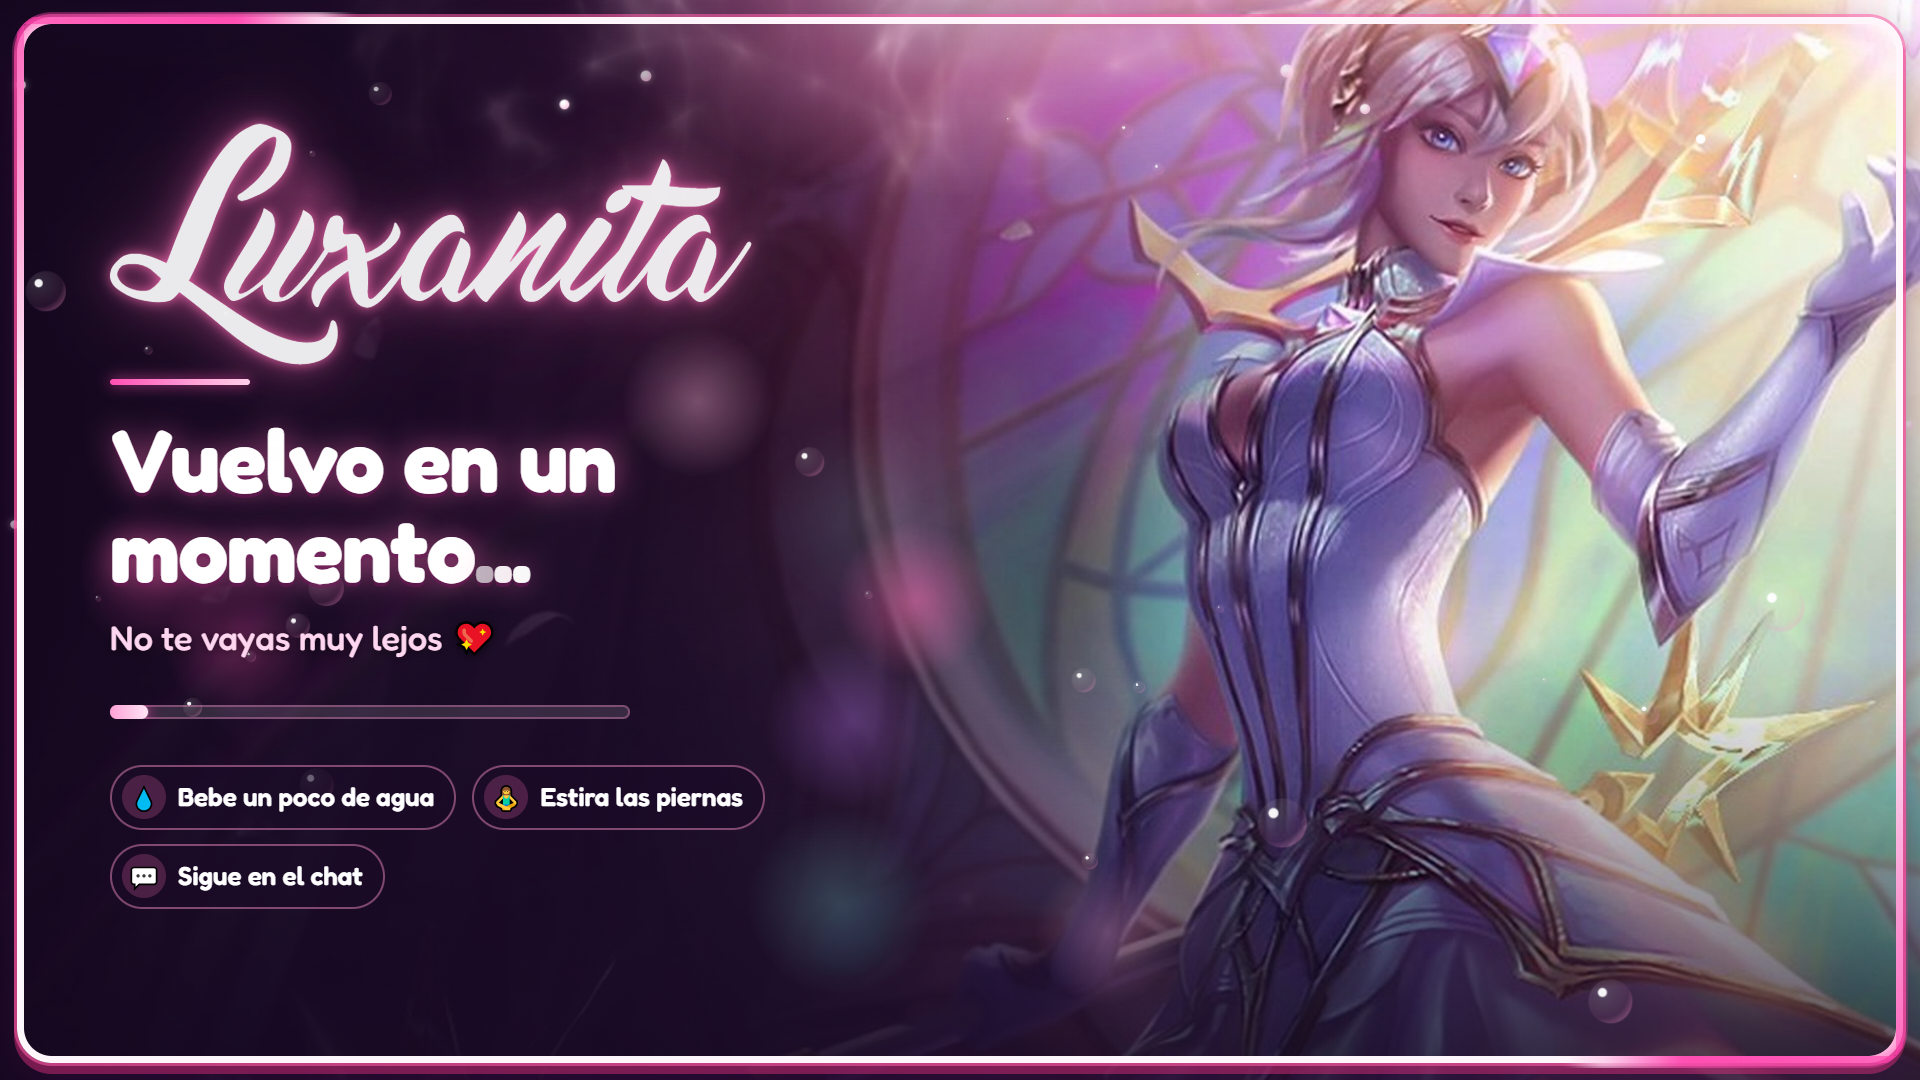
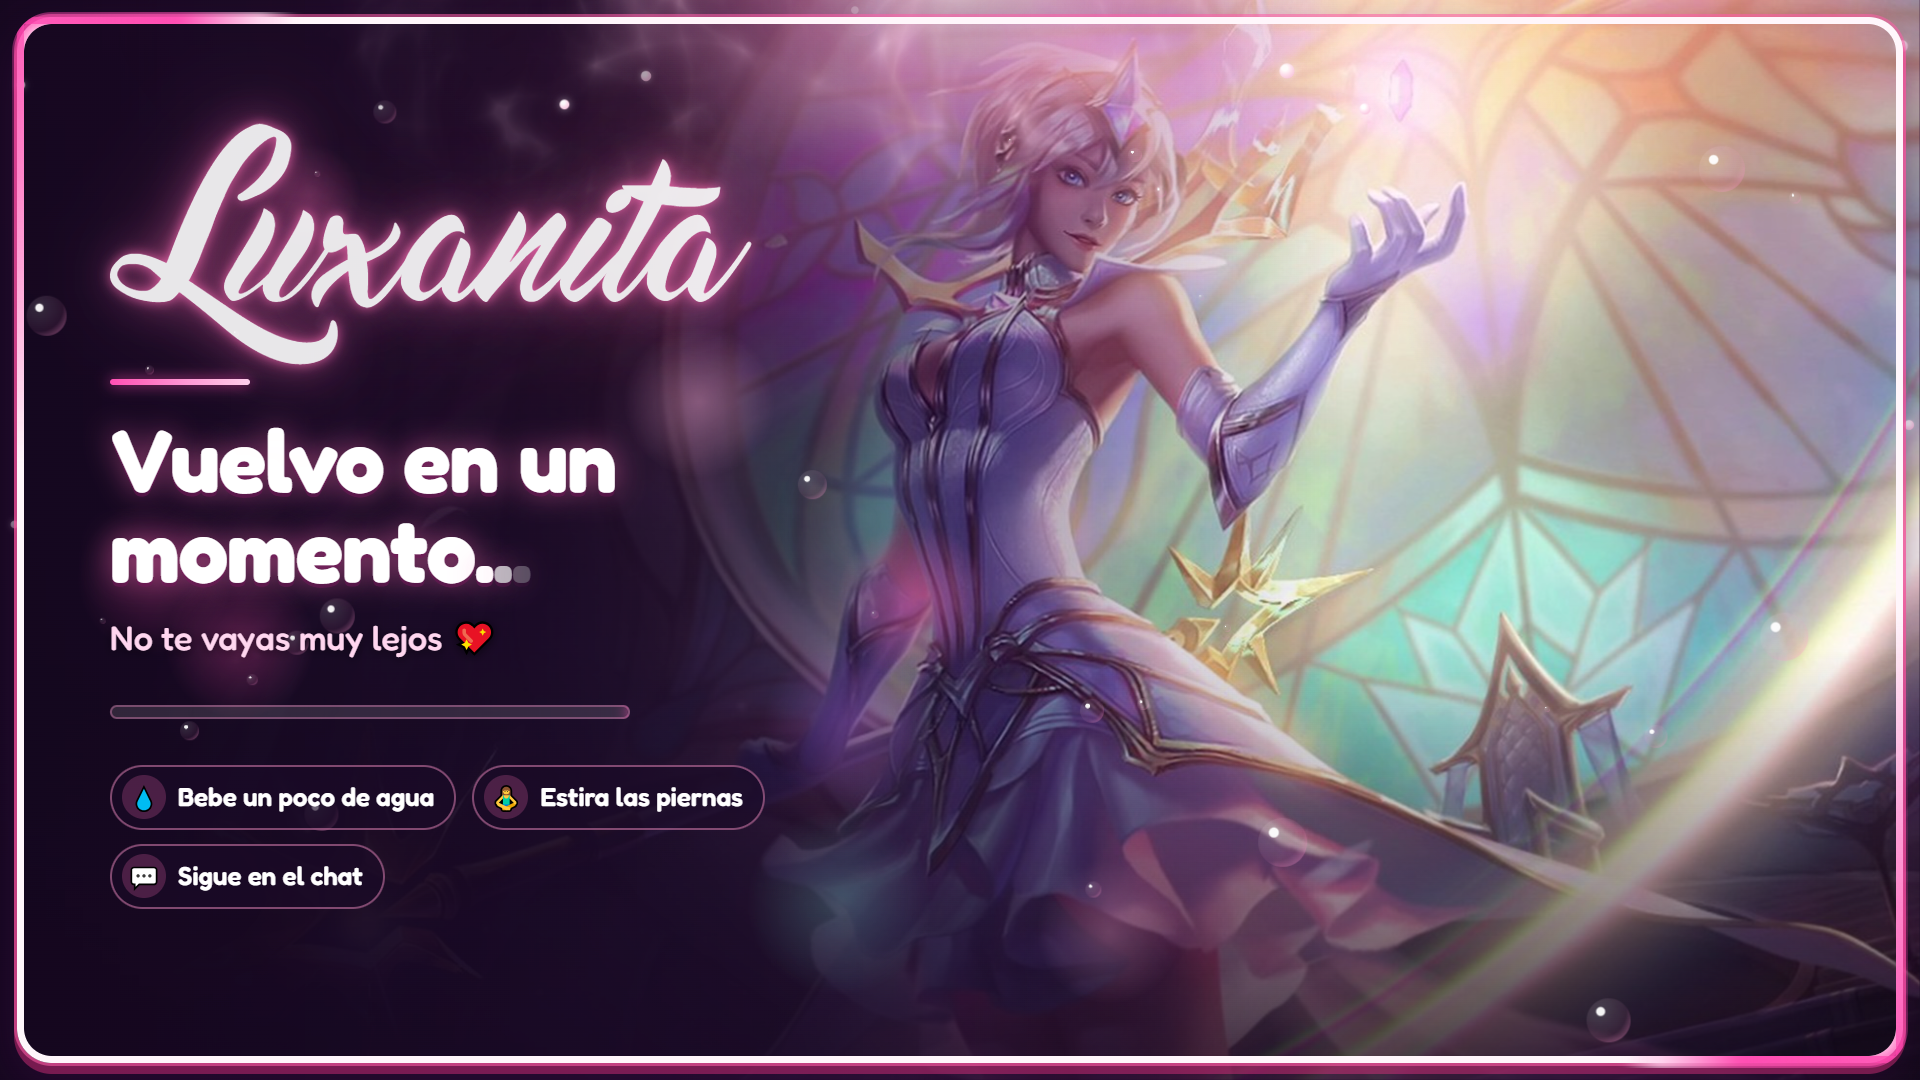
Overlay: ilustraciones de fondo a su tamaño natural, sin zoom de más

diff --git a/overlay/comun.css b/overlay/comun.css
@@ -611,14 +611,18 @@ html.preview.sin-fondo #stage { background: repeating-conic-gradient(#d9d3e3 0 2
 }
 .pantalla .arte {
   position: absolute;
-  inset: -2.5%;
-  background: center / cover no-repeat;
+  inset: 0;
+  background: #1a0b26 right center / auto 100% no-repeat;   /* tamaño natural, ajustada al alto y pegada a la derecha */
+  transform-origin: 80% 40%;
+  /* el borde izquierdo de la imagen se funde con el fondo (por si la imagen es más estrecha que la pantalla) */
+  -webkit-mask-image: linear-gradient(90deg, transparent 0, transparent 6%, #000 30%);
+          mask-image: linear-gradient(90deg, transparent 0, transparent 6%, #000 30%);
   will-change: transform;
   animation: zoom-pantalla 40s ease-in-out infinite alternate;
 }
 @keyframes zoom-pantalla {
-  from { transform: scale(1) translate(0, 0); }
-  to   { transform: scale(1.06) translate(-1%, -1%); }
+  from { transform: scale(1); }
+  to   { transform: scale(1.03); }      /* zoom muy suave: la imagen ya trae ese 3 % de margen */
 }
 /* oscurece el lado del texto y tiñe de rosa, como si se viera desde el agua */
 .pantalla .velo {
